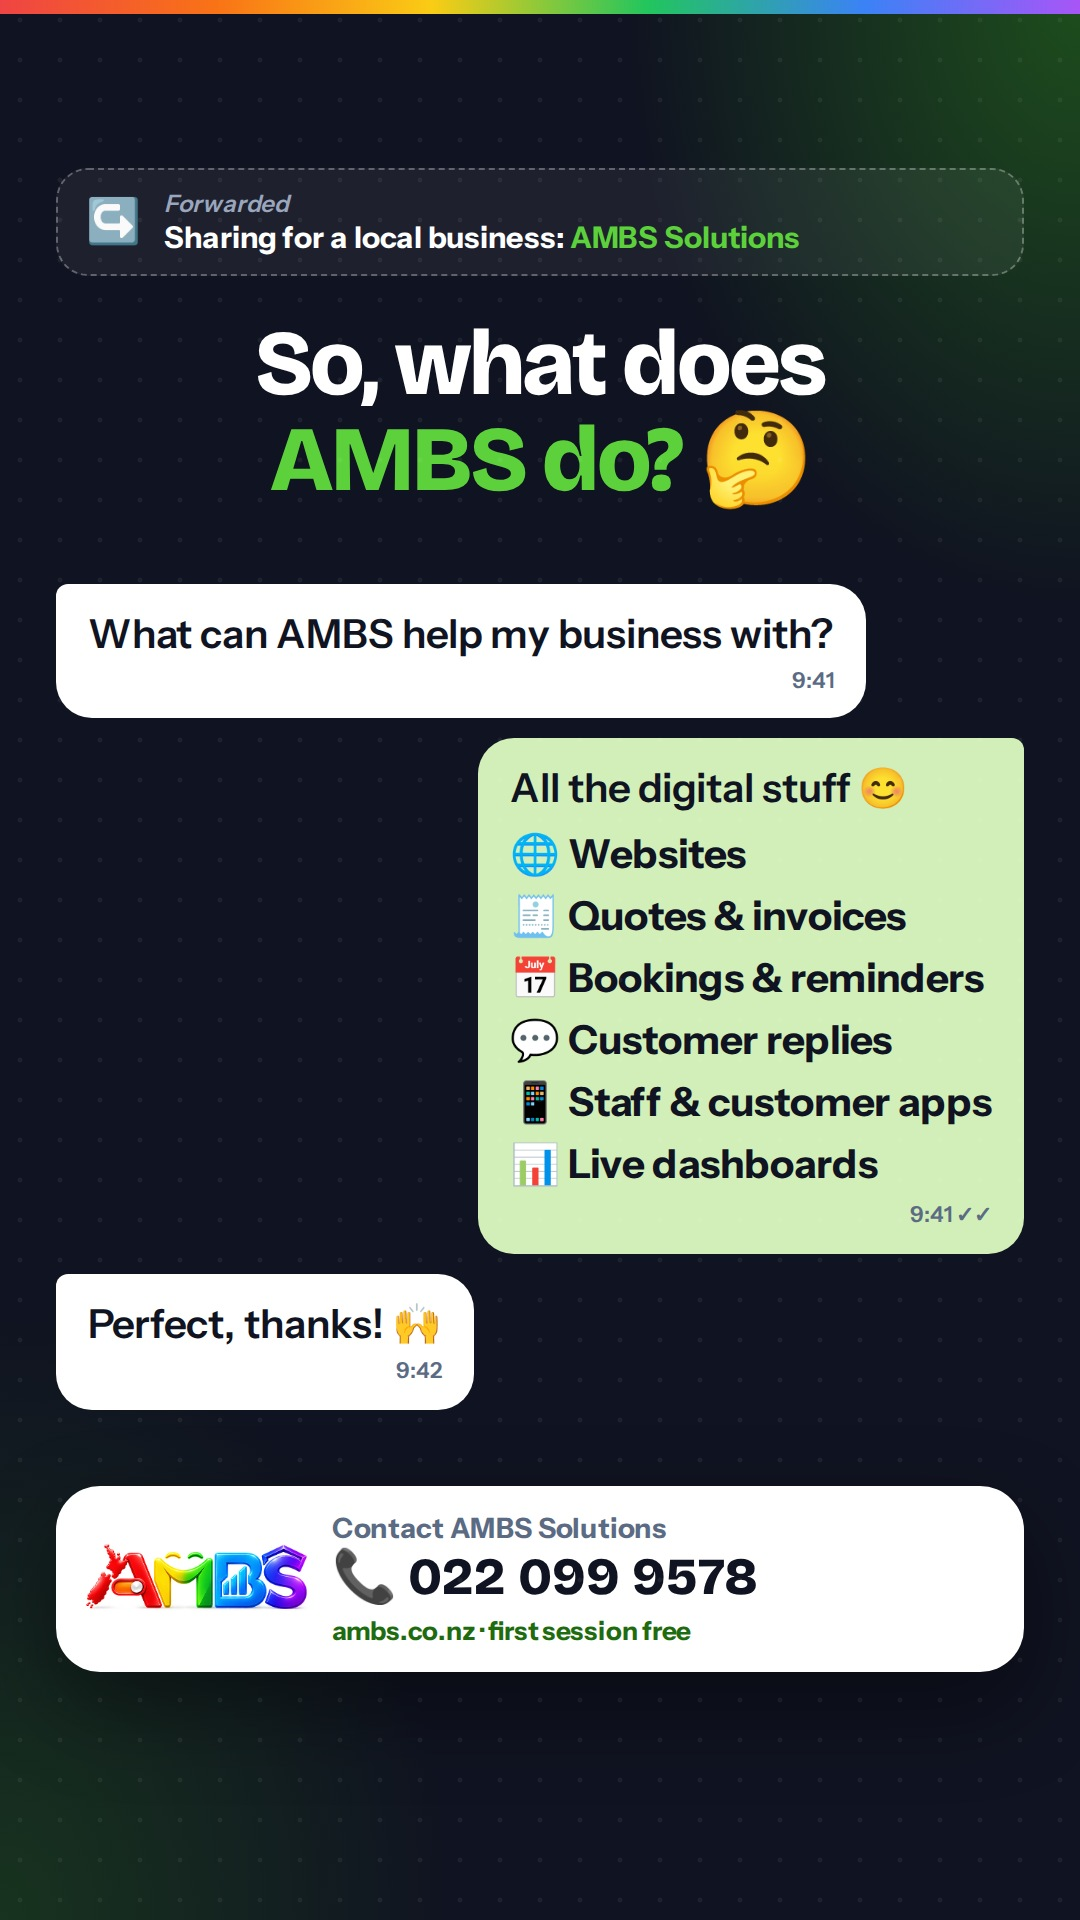
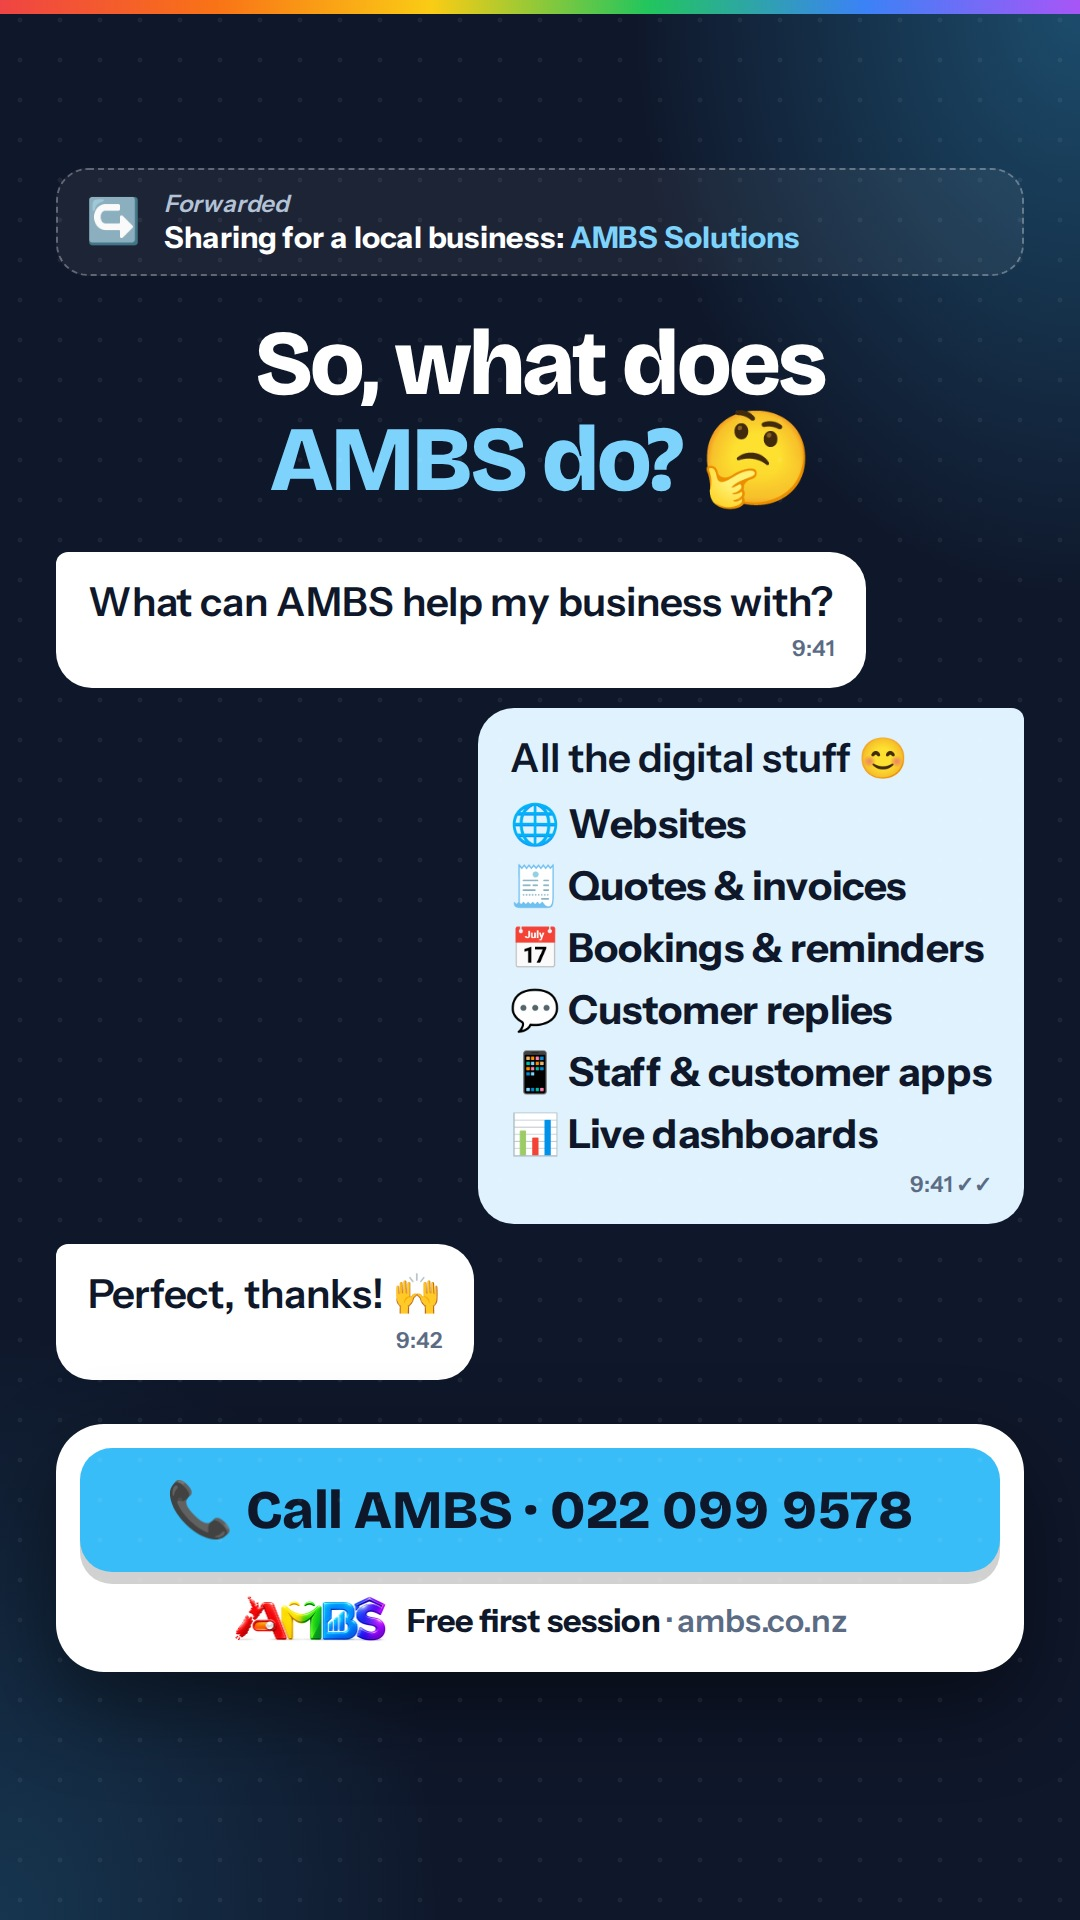
All-services statuses: five colour palettes and a clear Call AMBS button
Claude-Session: https://claude.ai/code/session_01UEFq6Row7p6wmTAvf3EyaN

diff --git a/marketing-videos/posters/24b-all-checklist.html b/marketing-videos/posters/24b-all-checklist.html
@@ -1,12 +1,12 @@
 <!doctype html>
 <html lang="en-NZ"><head><meta charset="utf-8"><title>Poster — all AMBS services: checklist</title>
-<link rel="stylesheet" href="../engine/base.css"><link rel="stylesheet" href="_endorse.css"><link rel="stylesheet" href="_svc2.css">
+<link rel="stylesheet" href="../engine/base.css"><link rel="stylesheet" href="_endorse.css"><link rel="stylesheet" href="_svc2.css"><link rel="stylesheet" href="_palettes.css">
 <style>h1 { text-align: center; } .body { flex: 1; display: flex; flex-direction: column; justify-content: center; min-height: 0; padding: 14px 0; } 
   .ck { display: grid; gap: 11px; }
   .ck div { display: flex; align-items: center; gap: 14px; padding: 13px 16px; border-radius: 16px; background: #fff; color: var(--ink); box-shadow: 0 8px 22px rgba(0,0,0,.25); }
   .ck .e { width: 40px; height: 40px; border-radius: 12px; background: var(--soft); display: grid; place-items: center; font-size: 21px; flex: none; }
   .ck b { font-size: 21px; font-weight: 700; } .ck i { margin-left: auto; font-style: normal; width: 28px; height: 28px; border-radius: 50%; background: var(--g); color: #fff; display: grid; place-items: center; font-size: 15px; font-weight: 800; }</style></head><body>
-<div id="frame">
+<div id="frame" class="p-purple">
   <div class="stripe"></div>
   <div class="fwd"><div class="ar">↪</div><div><i>Forwarded</i><b>Sharing for a local business: <span>AMBS Solutions</span></b></div></div>
 
@@ -16,5 +16,5 @@
     <div><span class="e emoji">📅</span><b class="hd">Bookings &amp; reminders</b><i>✓</i></div><div><span class="e emoji">💬</span><b class="hd">Customer replies</b><i>✓</i></div>
     <div><span class="e emoji">📱</span><b class="hd">Staff &amp; customer apps</b><i>✓</i></div><div><span class="e emoji">📊</span><b class="hd">Live dashboards</b><i>✓</i></div>
   </div></div>
-  <div class="foot"><img src="../assets/ambs-logo.png" alt="AMBS"><div class="c"><small>Contact AMBS Solutions</small><b class="hd">📞 022 099 9578</b><span>ambs.co.nz · first session free</span></div></div>
+  <div class="cta2"><div class="btn hd">📞 Call AMBS · 022 099 9578</div><div class="sub"><img src="../assets/ambs-logo.png" alt="AMBS"><span><b>Free first session</b> · ambs.co.nz</span></div></div>
 </div></body></html>

diff --git a/marketing-videos/posters/_palettes.css b/marketing-videos/posters/_palettes.css
@@ -1,0 +1,20 @@
+/* Colour palettes for the all-services statuses (24-series). Load after the layout CSS and add the class to #frame.
+   --g accent fill, --on text on the accent, --gl highlight text, --soft light tint, --gd dark accent text, --mu muted text. */
+.p-blue   { --ink: #0a2463; --g: #fde047; --on: #0a2463; --gl: #fde047; --soft: #fef9c3; --gd: #854d0e; --mu: #b9c8ee; --glow: 253,224,71; }
+.p-purple { --ink: #2a0f45; --g: #ec4899; --on: #fff;    --gl: #f9a8d4; --soft: #fce7f3; --gd: #9d174d; --mu: #d6c2ec; --glow: 236,72,153; }
+.p-teal   { --ink: #053b3f; --g: #ff7a59; --on: #fff;    --gl: #ffb199; --soft: #ffe4dc; --gd: #b23a1c; --mu: #a8d5d2; --glow: 255,122,89; }
+.p-wine   { --ink: #3d0a1a; --g: #fbbf24; --on: #3d0a1a; --gl: #fcd34d; --soft: #fef3c7; --gd: #92400e; --mu: #e6bcc8; --glow: 251,191,36; }
+.p-sky    { --ink: #0f172a; --g: #38bdf8; --on: #0f172a; --gl: #7dd3fc; --soft: #e0f2fe; --gd: #075985; --mu: #b4c2d6; --glow: 56,189,248; }
+#frame[class^="p-"] { background: radial-gradient(60% 45% at 100% 0%, rgba(var(--glow),.32), transparent 70%), radial-gradient(60% 45% at 0% 100%, rgba(var(--glow),.18), transparent 70%), var(--ink); }
+#frame[class^="p-"] .foot .c span { color: var(--gd); }
+#frame[class^="p-"] .ck i, #frame[class^="p-"] .s .e { color: var(--on); }
+#frame[class^="p-"] .ring { border-color: rgba(var(--glow),.55); }
+#frame[class^="p-"] .hub { box-shadow: 0 0 0 10px rgba(var(--glow),.25), 0 20px 50px rgba(0,0,0,.5); }
+#frame[class^="p-"] .ck .e { background: var(--soft); }
+#frame[class^="p-"] .fwd b span { color: var(--gl); }
+/* clear call to action: a big button in the accent colour */
+.cta2 { border-radius: 24px; background: #fff; color: var(--ink); padding: 12px 12px 12px; box-shadow: 0 18px 44px rgba(0,0,0,.45); }
+.cta2 .btn { display: block; text-align: center; padding: 15px 10px; border-radius: 16px; background: var(--g); color: var(--on); font-size: 27px; font-weight: 800;
+  box-shadow: 0 6px 0 rgba(0,0,0,.18); }
+.cta2 .sub { margin-top: 10px; display: flex; align-items: center; justify-content: center; gap: 10px; font-size: 16px; font-weight: 600; color: #5B6B84; }
+.cta2 .sub img { height: 28px; } .cta2 .sub b { color: var(--ink); }

diff --git a/marketing-videos/posters/24c-all-orbit.html b/marketing-videos/posters/24c-all-orbit.html
@@ -1,6 +1,6 @@
 <!doctype html>
 <html lang="en-NZ"><head><meta charset="utf-8"><title>Poster — all AMBS services: orbit</title>
-<link rel="stylesheet" href="../engine/base.css"><link rel="stylesheet" href="_endorse.css"><link rel="stylesheet" href="_svc2.css">
+<link rel="stylesheet" href="../engine/base.css"><link rel="stylesheet" href="_endorse.css"><link rel="stylesheet" href="_svc2.css"><link rel="stylesheet" href="_palettes.css">
 <style>h1 { text-align: center; } .body { flex: 1; display: flex; flex-direction: column; justify-content: center; min-height: 0; padding: 14px 0; } 
   .orb { position: relative; width: 484px; height: 440px; margin: 0 auto; }
   .ring { position: absolute; left: 50%; top: 50%; width: 330px; height: 330px; margin: -165px 0 0 -165px; border-radius: 50%; border: 2px dashed rgba(92,209,60,.45); }
@@ -10,7 +10,7 @@
   .s { position: absolute; width: 150px; margin-left: -75px; margin-top: -40px; text-align: center; }
   .s .e { display: grid; place-items: center; margin: 0 auto; width: 54px; height: 54px; border-radius: 50%; background: var(--g); font-size: 26px; box-shadow: 0 8px 20px rgba(0,0,0,.35); }
   .s b { display: block; margin-top: 6px; font-size: 16px; font-weight: 700; line-height: 1.1; }</style></head><body>
-<div id="frame">
+<div id="frame" class="p-teal">
   <div class="stripe"></div>
   <div class="fwd"><div class="ar">↪</div><div><i>Forwarded</i><b>Sharing for a local business: <span>AMBS Solutions</span></b></div></div>
 
@@ -23,5 +23,5 @@
     <div class="s" style="left:14%;top:72%"><span class="e emoji">📱</span><b class="hd">Staff &amp; customer apps</b></div>
     <div class="s" style="left:14%;top:30%"><span class="e emoji">📊</span><b class="hd">Live dashboards</b></div>
   </div></div>
-  <div class="foot"><img src="../assets/ambs-logo.png" alt="AMBS"><div class="c"><small>Contact AMBS Solutions</small><b class="hd">📞 022 099 9578</b><span>ambs.co.nz · first session free</span></div></div>
+  <div class="cta2"><div class="btn hd">📞 Call AMBS · 022 099 9578</div><div class="sub"><img src="../assets/ambs-logo.png" alt="AMBS"><span><b>Free first session</b> · ambs.co.nz</span></div></div>
 </div></body></html>

diff --git a/marketing-videos/posters/24e-all-chat.html b/marketing-videos/posters/24e-all-chat.html
@@ -1,6 +1,6 @@
 <!doctype html>
 <html lang="en-NZ"><head><meta charset="utf-8"><title>Poster — all AMBS services: chat</title>
-<link rel="stylesheet" href="../engine/base.css"><link rel="stylesheet" href="_endorse.css"><link rel="stylesheet" href="_svc2.css">
+<link rel="stylesheet" href="../engine/base.css"><link rel="stylesheet" href="_endorse.css"><link rel="stylesheet" href="_svc2.css"><link rel="stylesheet" href="_palettes.css">
 <style>h1 { text-align: center; } .body { flex: 1; display: flex; flex-direction: column; justify-content: center; min-height: 0; padding: 14px 0; } 
   .ch { display: flex; flex-direction: column; gap: 10px; }
   .m { max-width: 86%; padding: 12px 16px; border-radius: 18px; font-size: 20px; font-weight: 600; line-height: 1.35; }
@@ -8,7 +8,7 @@
   .m.out { align-self: flex-end; background: var(--soft); color: var(--ink); border-top-right-radius: 6px; }
   .m.out ul { list-style: none; margin-top: 4px; } .m.out li { font-weight: 700; padding: 2px 0; }
   .m small { display: block; text-align: right; font-size: 11px; color: #5B6B84; margin-top: 2px; }</style></head><body>
-<div id="frame">
+<div id="frame" class="p-sky">
   <div class="stripe"></div>
   <div class="fwd"><div class="ar">↪</div><div><i>Forwarded</i><b>Sharing for a local business: <span>AMBS Solutions</span></b></div></div>
 
@@ -18,5 +18,5 @@
     <div class="m out">All the digital stuff 😊<ul><li>🌐 Websites</li><li>🧾 Quotes &amp; invoices</li><li>📅 Bookings &amp; reminders</li><li>💬 Customer replies</li><li>📱 Staff &amp; customer apps</li><li>📊 Live dashboards</li></ul><small>9:41 ✓✓</small></div>
     <div class="m in">Perfect, thanks! 🙌<small>9:42</small></div>
   </div></div>
-  <div class="foot"><img src="../assets/ambs-logo.png" alt="AMBS"><div class="c"><small>Contact AMBS Solutions</small><b class="hd">📞 022 099 9578</b><span>ambs.co.nz · first session free</span></div></div>
+  <div class="cta2"><div class="btn hd">📞 Call AMBS · 022 099 9578</div><div class="sub"><img src="../assets/ambs-logo.png" alt="AMBS"><span><b>Free first session</b> · ambs.co.nz</span></div></div>
 </div></body></html>

diff --git a/marketing-videos/posters/24a-all-tiles.html b/marketing-videos/posters/24a-all-tiles.html
@@ -1,12 +1,12 @@
 <!doctype html>
 <html lang="en-NZ"><head><meta charset="utf-8"><title>Poster — all AMBS services: tiles</title>
-<link rel="stylesheet" href="../engine/base.css"><link rel="stylesheet" href="_endorse.css"><link rel="stylesheet" href="_svc2.css">
+<link rel="stylesheet" href="../engine/base.css"><link rel="stylesheet" href="_endorse.css"><link rel="stylesheet" href="_svc2.css"><link rel="stylesheet" href="_palettes.css">
 <style>h1 { text-align: center; } .body { flex: 1; display: flex; flex-direction: column; justify-content: center; min-height: 0; padding: 14px 0; } 
   .g { display: grid; grid-template-columns: 1fr 1fr; gap: 10px; }
-  .t { border-radius: 18px; padding: 20px 14px; background: rgba(255,255,255,.07); border: 1px solid rgba(255,255,255,.16); }
+  .t { border-radius: 18px; padding: 15px 13px; background: rgba(255,255,255,.07); border: 1px solid rgba(255,255,255,.16); }
   .t .e { font-size: 34px; } .t b { display: block; margin-top: 6px; font-size: 19px; font-weight: 700; line-height: 1.1; }
   .t span { display: block; margin-top: 4px; font-size: 14px; color: var(--mu); font-weight: 600; line-height: 1.3; }</style></head><body>
-<div id="frame">
+<div id="frame" class="p-blue">
   <div class="stripe"></div>
   <div class="fwd"><div class="ar">↪</div><div><i>Forwarded</i><b>Sharing for a local business: <span>AMBS Solutions</span></b></div></div>
 
@@ -19,5 +19,5 @@
     <div class="t"><div class="e emoji">📱</div><b class="hd">Staff &amp; customer apps</b><span>Your own app on every phone</span></div>
     <div class="t"><div class="e emoji">📊</div><b class="hd">Live dashboards</b><span>Your numbers every Monday</span></div>
   </div></div>
-  <div class="foot"><img src="../assets/ambs-logo.png" alt="AMBS"><div class="c"><small>Contact AMBS Solutions</small><b class="hd">📞 022 099 9578</b><span>ambs.co.nz · first session free</span></div></div>
+  <div class="cta2"><div class="btn hd">📞 Call AMBS · 022 099 9578</div><div class="sub"><img src="../assets/ambs-logo.png" alt="AMBS"><span><b>Free first session</b> · ambs.co.nz</span></div></div>
 </div></body></html>

diff --git a/marketing-videos/posters/24d-all-menu.html b/marketing-videos/posters/24d-all-menu.html
@@ -1,13 +1,13 @@
 <!doctype html>
 <html lang="en-NZ"><head><meta charset="utf-8"><title>Poster — all AMBS services: menu board</title>
-<link rel="stylesheet" href="../engine/base.css"><link rel="stylesheet" href="_endorse.css"><link rel="stylesheet" href="_svc2.css">
+<link rel="stylesheet" href="../engine/base.css"><link rel="stylesheet" href="_endorse.css"><link rel="stylesheet" href="_svc2.css"><link rel="stylesheet" href="_palettes.css">
 <style>h1 { text-align: center; } .body { flex: 1; display: flex; flex-direction: column; justify-content: center; min-height: 0; padding: 14px 0; } 
   .menu { border-radius: 22px; padding: 26px 22px 28px; background: rgba(255,255,255,.05); border: 2px solid rgba(255,255,255,.18); }
   .menu .mt { text-align: center; font-size: 15px; font-weight: 700; letter-spacing: .22em; color: var(--soft); }
   .menu .r { margin-top: 24px; display: flex; align-items: baseline; gap: 10px; font-size: 23px; font-weight: 700; }
   .menu .r .d { flex: 1; border-bottom: 2.5px dotted rgba(255,255,255,.3); transform: translateY(-5px); }
   .menu .r .v { font-size: 16px; color: var(--gl); white-space: nowrap; }</style></head><body>
-<div id="frame">
+<div id="frame" class="p-wine">
   <div class="stripe"></div>
   <div class="fwd"><div class="ar">↪</div><div><i>Forwarded</i><b>Sharing for a local business: <span>AMBS Solutions</span></b></div></div>
 
@@ -20,5 +20,5 @@
     <div class="r"><span>📱 Staff apps</span><span class="d"></span><span class="v">on every phone</span></div>
     <div class="r"><span>📊 Dashboards</span><span class="d"></span><span class="v">every Monday</span></div>
   </div></div>
-  <div class="foot"><img src="../assets/ambs-logo.png" alt="AMBS"><div class="c"><small>Contact AMBS Solutions</small><b class="hd">📞 022 099 9578</b><span>ambs.co.nz · first session free</span></div></div>
+  <div class="cta2"><div class="btn hd">📞 Call AMBS · 022 099 9578</div><div class="sub"><img src="../assets/ambs-logo.png" alt="AMBS"><span><b>Free first session</b> · ambs.co.nz</span></div></div>
 </div></body></html>
